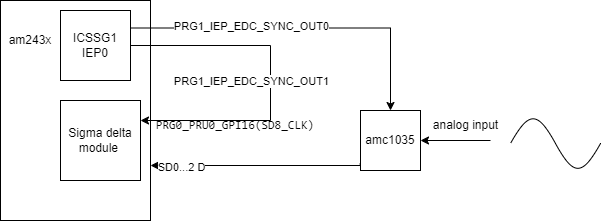
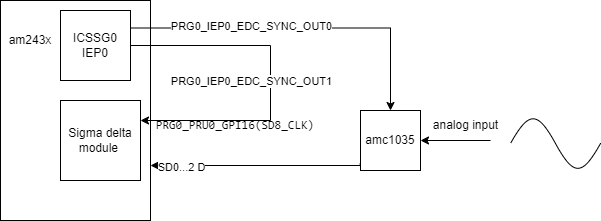
am243x/am64x: SDFM: Update test cases
Fixes: PINDSW-7872

Changed region(s): [[0.2696, 0.3258, 0.5691, 0.4072], [0.2696, 0.0814, 0.5691, 0.1357], [0.1797, 0.1357, 0.2097, 0.19]]

diff --git a/docs_src/docs/api_guide/examples/sdfm_trigger_based_nc_examples.md b/docs_src/docs/api_guide/examples/sdfm_trigger_based_nc_examples.md
@@ -130,11 +130,6 @@ Other than the basic EVM setup mentioned in <a href="@VAR_MCU_SDK_DOCS_PATH/EVM_
         <td>2. Set single update trigger time to half of EPWM cycle time </td>
         <td></td>
  </tr>
- <tr>
-        <td></td>
-        <td>3. Disable double update</td>
-        <td></td>
-</tr>
 <tr>
         <td></td>
         <td>3. Build and run example </td>
@@ -183,32 +178,56 @@ Other than the basic EVM setup mentioned in <a href="@VAR_MCU_SDK_DOCS_PATH/EVM_
 </tr>
 
 <tr>
-        <td>4. To check Threshold comparator and Over current</td>
-        <td>1. Set High Threshold to 3500 and low threshold to 2500</td>
+        <td>4. To test SINC1/SINC2/SINC3 filter</td>
+        <td>1. Set NC OSR to 64 </td>
+        <td> Raw data should have different resolution for different SINC filter </td>
+</tr>
+<tr>
+        <td></td>
+        <td>2. Set accumulator source to SINC1/SINC2/SINC3 </td>
+        <td> SINC3 raw data resolution = OSR *(SINC2 raw data resolution) = OSR*OSR*(SINC1 raw data resolution)</td>
+</tr>
+<tr>
+        <td></td>
+        <td>3. Build and run example </td>
+        <td></td>
+</tr>
+
+
+<tr>
+        <td>5. To check Threshold comparator and Over current</td>
+        <td>1. Enable Comparator filter  </td>
         <td> Trip status bit must be set for the respective pwm trip zone block and TZ_OUT pin must be high</td>
 </tr>
 <tr>
         <td></td>
-        <td>2. Set Over current OSR to 16</td>
+        <td>2. Set High Threshold to 3500 and low threshold to 2500 (low and high threshold value should be configured based on raw data resolution for 16 OSR) </td>
+        <td></td>
+</tr>
+
+<tr>
+        <td></td>
+        <td>3. Set Over current OSR to 16</td>
         <td>High Low Threshold status bits must be constantly unset and set</td>
 </tr>
 <tr>
         <td></td>
-        <td>3. Probe PWMm_TZ_OUT pin </td>
+        <td>4. Probe PWMm_TZ_OUT pin </td>
         <td></td>
 </tr>
 <tr>
         <td></td>
-        <td>4. Build and run example</td>
+        <td>5. Build and run example</td>
         <td></td>
  </tr>
 <tr>
         <td></td>
-        <td>5. Capture signal in Logic analyzer</td>
+        <td>6. Capture signal in Logic analyzer</td>
         <td> </td>
  </tr>
+
 <tr>
-        <td>5. To check NC Samples with Different NC OSR Values</td>
+        <td>6. To check NC Samples with Different NC OSR Values</td>
         <td>1. Set NC OSR values between 16 to 255 </td>
         <td>Raw data should have different resolution for different OSR values </td>
 </tr>
@@ -223,13 +242,13 @@ Other than the basic EVM setup mentioned in <a href="@VAR_MCU_SDK_DOCS_PATH/EVM_
         <td></td>
 </tr>
 <tr>
-        <td>6. To check NC samples with different sdfm clock values</td>
+        <td>7. To check NC samples with different sdfm clock values</td>
         <td>1. Set NC OSR to 64</td>
         <td> Raw data should have different resolution for different sdfm clock values  </td>
 </tr>
 <tr>
         <td></td>
-        <td>2. Set ecap_divider variable in sdfm.c file for different sd clock generation</td>
+        <td>2. Set ecap_divider variable in sdfm_example.c file for different sd clock generation</td>
         <td></td>
  </tr>
  <tr>
@@ -248,13 +267,13 @@ Other than the basic EVM setup mentioned in <a href="@VAR_MCU_SDK_DOCS_PATH/EVM_
         <td></td>
 </tr>
 <tr>
-        <td>7. To check Fast detect</td>
+        <td>8. To check Fast detect</td>
         <td>1. Set NC OSR to 64</td>
         <td> Trip must be triggered for the respective pwm trip zone block </td>
 </tr>
 <tr>
         <td></td>
-        <td>2. Enable Fast detect</td>
+        <td>2. Enable Fast detect and disable Comparator </td>
         <td></td>
  </tr>
 <tr>
@@ -274,39 +293,46 @@ Other than the basic EVM setup mentioned in <a href="@VAR_MCU_SDK_DOCS_PATH/EVM_
                2) Check zero/one count max & zero/one count min threshold hit bits in memory map</td>
         <td></td>
 </tr>
+
 <tr>
-        <td>8. To check Zero Cross</td>
-        <td>1. Set Overcurrent (OC) OSR to 16</td>
+        <td>9. To check Zero Cross</td>
+        <td>1. Enable Comparator filter </td>
         <td> Logic analyzer capture should match with this capture </td>
 </tr>
 <tr>
         <td></td>
-        <td>2. Enable Zero cross detection</td>
+        <td>2. Set Overcurrent (OC) OSR to 16 </td>
+        <td></td>
+ </tr>
+ <tr>
+        <td></td>
+        <td>3. Enable Zero cross detection</td>
         <td></td>
  </tr>
 <tr>
         <td></td>
-        <td>3. Set zero cross threshold vales to 1700 {value should be between max sampled value and min sampled value for 16 OSR}</td>
+        <td>4. Set zero cross threshold vales to 1700 {value should be between max sampled value and min sampled value for 16 OSR}</td>
         <td>\image html SDFM_Zero_cross_GPIO_output.png "Zero cross GPIO behaviour" </td>
  </tr>
 <tr>
         <td></td>
-        <td>4. probe ch0 zero cross GPIO pins and input SD analog signal</td>
+        <td>5. probe ch0 zero cross GPIO pins and input SD analog signal</td>
         <td></td>
 </tr>
 <tr>
         <td></td>
-        <td>5. Build and run example</td>
+        <td>6. Build and run example</td>
         <td></td>
 </tr>
 <tr>
         <td></td>
-        <td>6. Capture signals in logic analyzer</td>
+        <td>7. Capture signals in logic analyzer</td>
         <td></td>
 </tr>
 \cond SOC_AM243X
+
 <tr>
-        <td>9.Testing with sdfm clock from EPWM </td>
+        <td>10.Testing with sdfm clock from EPWM </td>
         <td>1. Make hardware set up like attached image </td>
         <td>All test cases results should match with ECAP test case results</td>
  </tr>
@@ -341,4 +367,93 @@ Other than the basic EVM setup mentioned in <a href="@VAR_MCU_SDK_DOCS_PATH/EVM_
         <td></td>
  </tr>
  \endcond
+
+ <tr>
+        <td>11. To test EPWM Synchronization source</td>
+        <td>1. Set synchronization source to EPWM3 </td>
+        <td> All test cases sh </td>
+</tr>
+<tr>
+        <td></td>
+        <td>2. Set NC OSR to 64</td>
+        <td>The drawn graph and raw data should look like the attached image</td>
+</tr>
+<tr>
+        <td></td>
+        <td>3. Set single update trigger time to half of EPWM cycle time </td>
+        <td></td>
+ </tr>
+ <tr>
+        <td></td>
+        <td>4. Add and configure EPWM3 instance in SysConfig</td>
+        <td></td>
+</tr>
+<tr>
+        <td></td>
+        <td>5. Build and run example </td>
+        <td></td>
+</tr>
+<tr>
+        <td></td>
+        <td>6. Draw graph for Raw data</td>
+        <td>\image html SDFM_Single_update_64OSR.PNG "Single Update Raw data"</td>
+</tr>
+
+<tr>
+        <td>12. To test %SDFM clock generation from eCAP</td>
+        <td>1. Set SDCLK Generation From to eCAP </td>
+        <td> </td>
+</tr>
+<tr>
+        <td></td>
+        <td>2. %SDFM Clock to 20MHz </td>
+        <td> Generated clock should come out on PRGx_ECAP0_IN_APWM_OUT signal </td>
+</tr>
+<tr>
+        <td></td>
+        <td>3. Configure PRGx_ECAP0_IN_APWM_OUT pin inside PRU ICSSG ECAP SysConfig module </td>
+        <td> </td>
+</tr>
+<tr>
+        <td></td>
+        <td>4. Build and run example </td>
+        <td></td>
+</tr>
+
+<tr>
+        <td>13. To test S%DFM clock generation from ICSSG PRU GPO1</td>
+        <td>1. Set `SDCLK Generation From` to PRU-ICSSG (PRG<k>_PRU1/0_GPI1) </td>
+        <td></td>
+</tr>
+<tr>
+        <td></td>
+        <td>2. %SDFM Clock to 20MHz </td>
+        <td> Generated clock should come out on PRG<k>_PRU1/0_GPI1 signal </td>
+</tr>
+<tr>
+        <td></td>
+        <td>3. Build and run example </td>
+        <td></td>
+</tr>
+
+<tr>
+        <td>14. To test %SDFM clock generation from IEP</td>
+        <td>1. Set `SDCLK Generation From` to IEP </td>
+        <td> </td>
+</tr>
+<tr>
+        <td></td>
+        <td>2. %SDFM Clock to 20MHz </td>
+        <td> Generated clock should come out on two pins corresponding SYNC0 and SYNC1</td>
+</tr>  
+<tr>
+        <td></td>
+        <td>3. Configure SYNC_OUT0 and SYNC_OUT0 pins inside PRU ICSSG IEP SysConfig module </td>
+        <td> </td>
+</tr>
+<tr>
+        <td></td>
+        <td>4. Build and run example </td>
+        <td></td>
+</tr>
 </table>

diff --git a/docs_src/docs/api_guide/examples/pruicss_pwm_deadband_epwm_sync.md b/docs_src/docs/api_guide/examples/pruicss_pwm_deadband_epwm_sync.md
@@ -60,7 +60,7 @@ This example uses EPWM0 sync out to reset IEP at the PWM period, PRUICSS IEP CMP
 - PRG0_PWM0_A0 can be probed on J1.5
 - PRG0_PWM0_B0 can be probed on J2.15
 - PRG0_PWM2_A0 can be probed on J4.31
-- PRG0_PWM2_B0 can be probed on J2.39
+- PRG0_PWM2_B0 can be probed on J4.39
 - EPWM0_CHANNEL_A can be probed on J4.40
 
 #### AM64X-EVM and AM243X-EVM 
@@ -68,8 +68,8 @@ This example uses EPWM0 sync out to reset IEP at the PWM period, PRUICSS IEP CMP
 - PRG0_PWM0_A0 can be probed on J3.1
 - PRG0_PWM0_B0 can be probed on J3.3
 - PRG0_PWM2_A0 can be probed on J2.5
-- PRG0_PWM2_B0 can be probed on J5.9
-- EPWM0_CHANNEL_A can be probed on J5.7
+- PRG0_PWM2_B0 can be probed on J6.9
+- EPWM0_CHANNEL_A can be probed on J6.7
 
 #### Probe Output
 

diff --git a/docs_src/docs/api_guide/examples/sdfm_examples.md b/docs_src/docs/api_guide/examples/sdfm_examples.md
@@ -99,7 +99,7 @@ The PRG<k>_PRU1/0_GPI1 signal (muxed with SD0_D) can be used as SD_CLKOUT when P
 
 ### ICSSG eCAP 
 ICSSG eCAP can be used for %SDFM clock generation. Based on divider value API \ref SDFM_configEcap does configuration of eCAP registers and enables eCAP to generate output clock on PRGx_ECAP0_IN_APWM_OUT pin.
-- Generated clock comes out on PRG<k>_PRU1/0_GPI1 signal that can be fed externally to modulator and SD_CLK pins 
+- Generated clock comes out on PRGx_ECAP0_IN_APWM_OUT signal that can be fed externally to modulator and SD_CLK pins 
 - Divider value settings for given PRU core clock and SD clock values
 <table>
 <tr>

diff --git a/docs_src/docs/api_guide/components/current_sense/sdfm_design.md b/docs_src/docs/api_guide/components/current_sense/sdfm_design.md
@@ -253,14 +253,14 @@ Following points describe the process for measurement of phase difference betwee
 	<td>(J6.57)TZ output pin for Axis-3
 </tr>
 <tr>
-    <td>PRG1_IEP0_EDC_SYNC_OUT0
-    <td>PIN_PRG1_PRU0_GPO19
-	<td>(J7.63) SYNC_OUT0
+    <td>PRG0_IEP0_EDC_SYNC_OUT0
+    <td>PIN_PRG0_PRU0_GPO19
+	<td>(J5.45)SYNC_OUT0
 </tr>
 <tr>
-    <td>PRG1_IEP0_EDC_SYNC_OUT1
-    <td>PIN_PRG1_PRU0_GPO17
-	<td>(J7.65) SYNC_OUT1
+    <td>PRG0_IEP0_EDC_SYNC_OUT1
+    <td>PIN_PRG0_PRU0_GPO17
+	<td>(J2.18) SYNC_OUT1
 </tr>
 </table>
 \endcond

diff --git a/docs_src/docs/api_guide/examples/sdfm_trigger_based_nc_example_with_phase_delay.md b/docs_src/docs/api_guide/examples/sdfm_trigger_based_nc_example_with_phase_delay.md
@@ -10,7 +10,7 @@ during initialization. Normal current Over-sampling Ratio (OSR), Over current OS
 Only one core - PRU is used for this example.
 
 The example does the below:
-- Configure ICSSG1 IEP0 for generating clock for %SDFM
+- Configure ICSSG0 IEP0 for generating clock for %SDFM
 - Enable Phase Compensation Measurement
 - Configure SYNC1 Delay register based on the measured phase delay
 - Set %SDFM channels: Channel 0 - Channel 2
